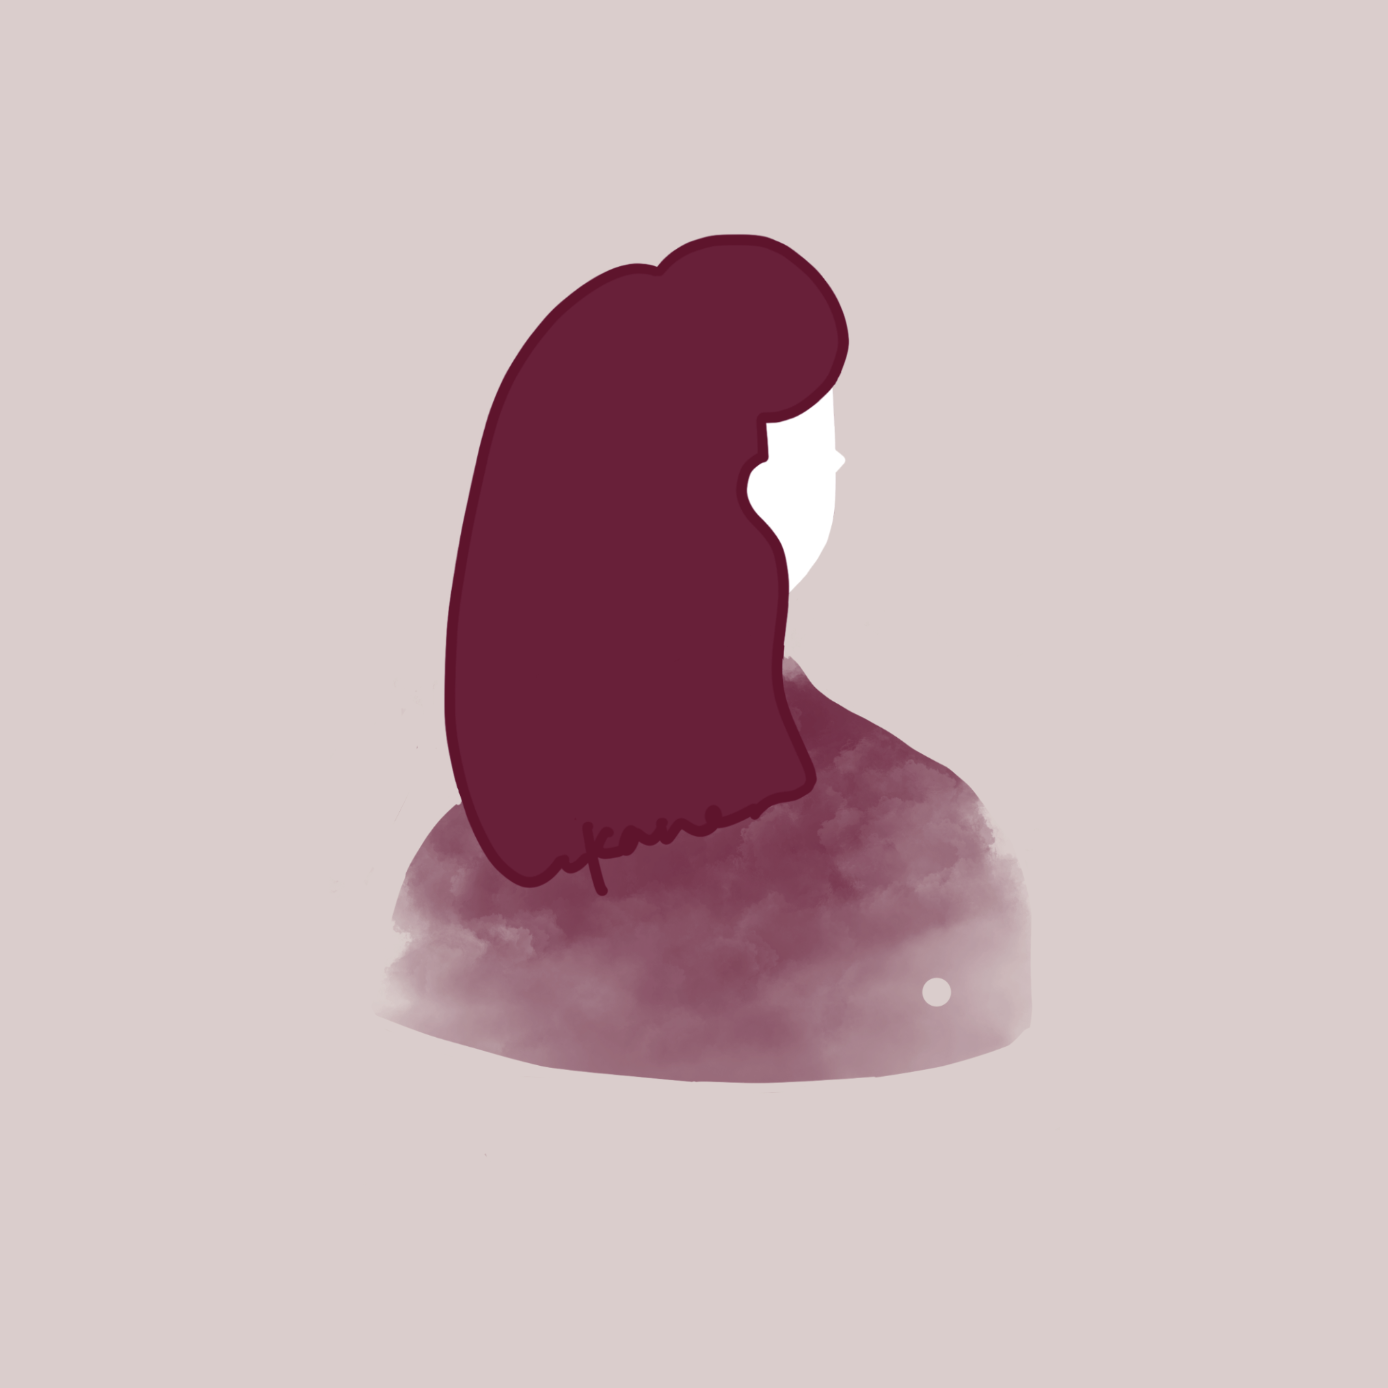
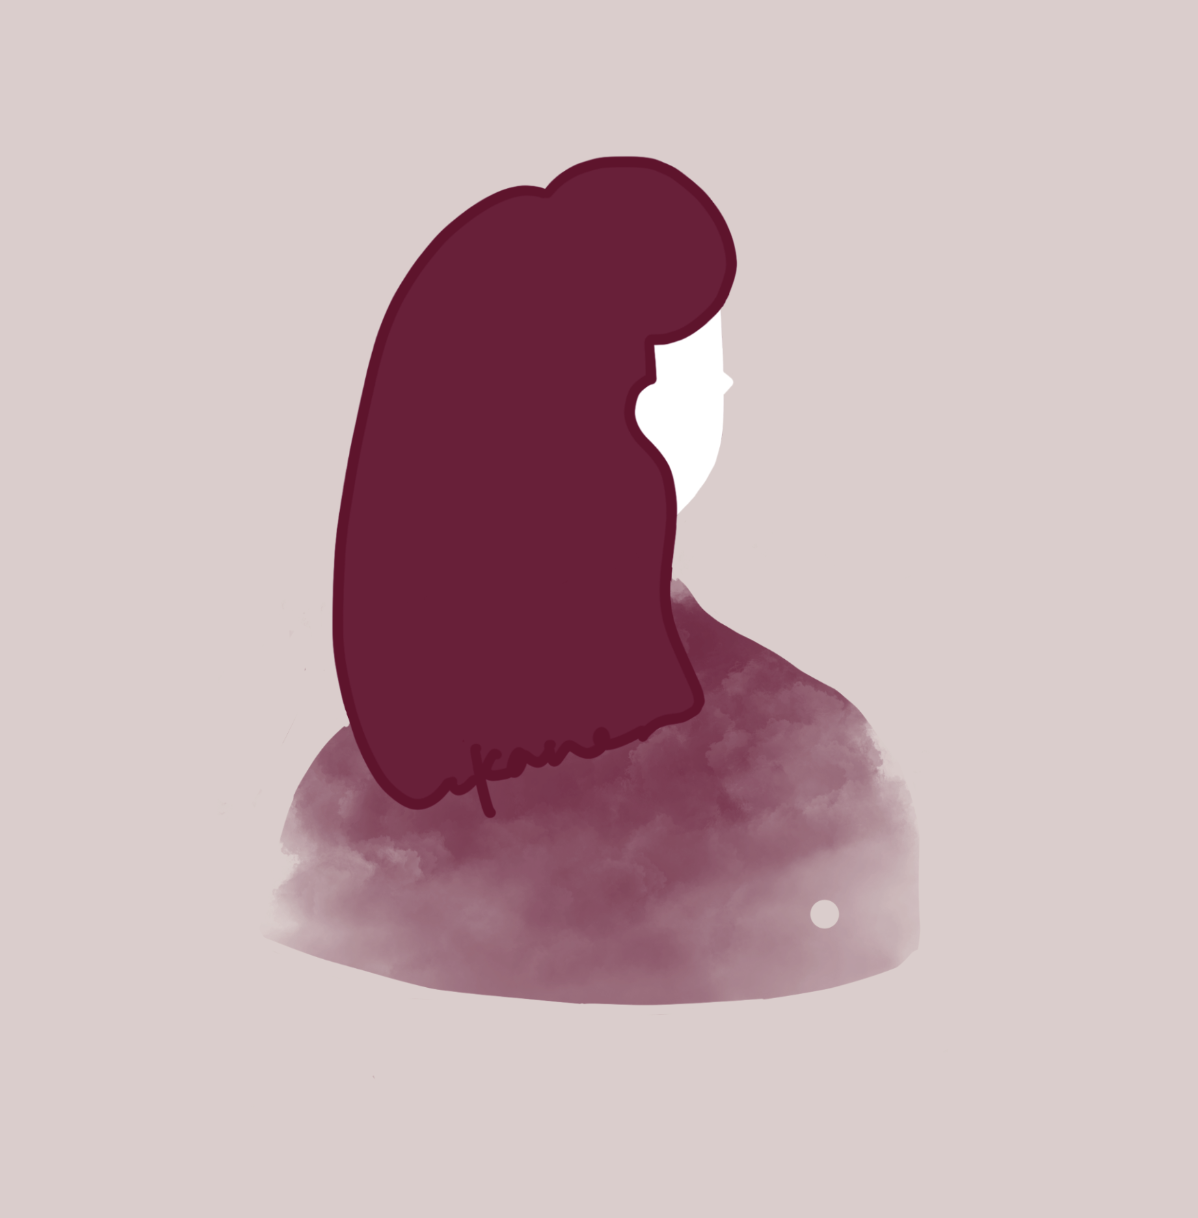
アイコン差し替え

Changed region(s): [[0.2162, 0.1248, 0.7721, 0.8424]]

diff --git a/lib/screen/login/login_page.dart b/lib/screen/login/login_page.dart
@@ -1,3 +1,5 @@
+import 'package:becos_kitchen/model/user.dart';
+import 'package:becos_kitchen/screen/common/circle_user_avatar.dart';
 import 'package:flutter/material.dart';
 
 class LoginPage extends StatelessWidget {
@@ -5,8 +7,24 @@ class LoginPage extends StatelessWidget {
 
   @override
   Widget build(BuildContext context) {
-    return Row(
-      children: [],
+    return Container(
+      width: double.infinity,
+      height: double.infinity,
+      decoration: const BoxDecoration(color: Colors.white),
+      child: Row(
+        mainAxisSize: MainAxisSize.max,
+        mainAxisAlignment: MainAxisAlignment.spaceEvenly,
+        children: const [
+          CircleUserAvatar(
+            size: 72,
+            user: User.baek,
+          ),
+          CircleUserAvatar(
+            size: 72,
+            user: User.akane,
+          ),
+        ],
+      ),
     );
   }
 }

diff --git a/lib/screen/main.dart b/lib/screen/main.dart
@@ -2,7 +2,7 @@ import 'dart:io';
 
 import 'package:becos_kitchen/common/material_color.dart';
 import 'package:becos_kitchen/firebase_options.dart';
-import 'package:becos_kitchen/screen/menu_list/menu_list_page.dart';
+import 'package:becos_kitchen/screen/login/login_page.dart';
 import 'package:firebase_core/firebase_core.dart';
 import 'package:flutter/material.dart';
 import 'package:flutter_localizations/flutter_localizations.dart';
@@ -31,7 +31,8 @@ class MyApp extends StatelessWidget {
           primarySwatch: customSwatch,
           iconTheme: const IconThemeData.fallback()
               .copyWith(color: const Color(green))),
-      home: const MenuListPage(),
+      // home: const MenuListPage(),
+      home: const LoginPage(),
       localizationsDelegates: const [
         GlobalMaterialLocalizations.delegate,
         GlobalWidgetsLocalizations.delegate,
